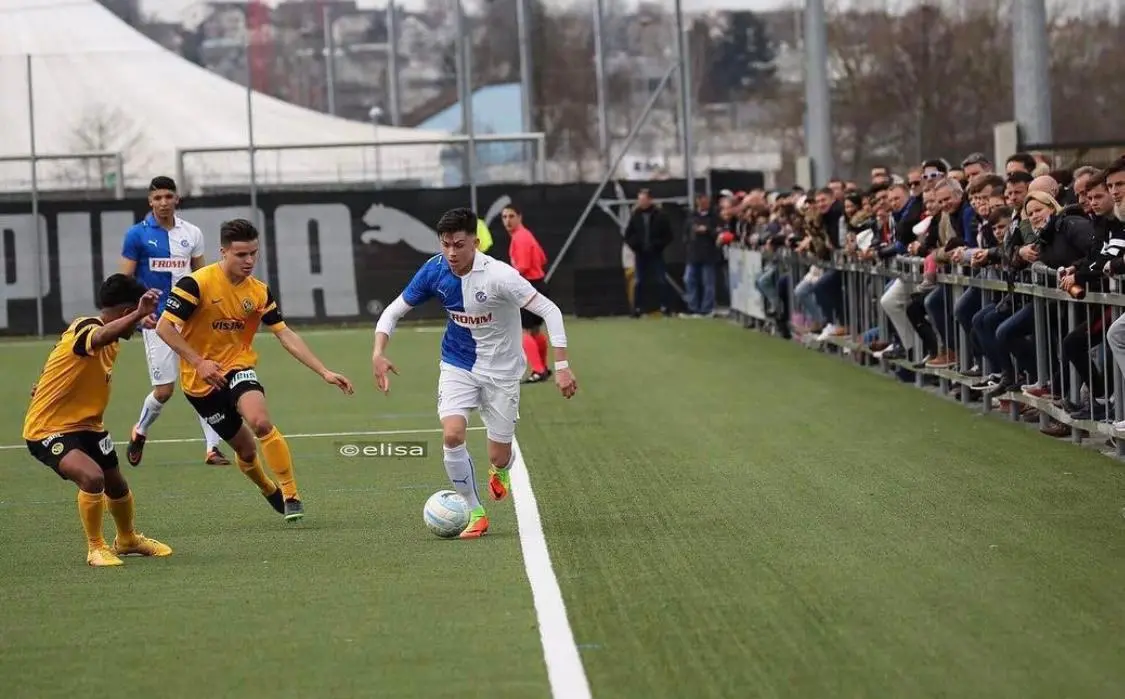
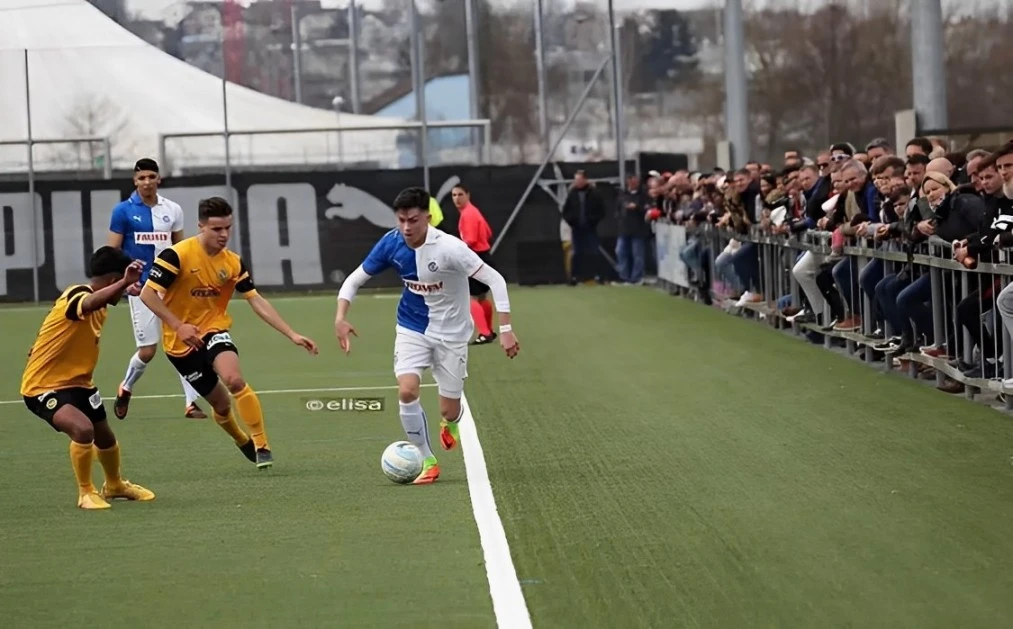
fix: convert img to webp

diff --git a/about.html b/about.html
@@ -100,7 +100,7 @@
                       <p>Nachdem ich meine Fussballschuhe an den Nagel hängen musste, entschied ich mich als Fussballtrainer weiterzuentwickeln. Ich absolvierte 3 Trainerdiplome in 2 Jahren und besitze die UEFA C Lizenz, während ich weiterhin nach einem höheren Diplom strebe. Mit meiner Mannschaft, den BA Junioren in Stäfa, durfte ich bereits Erfolge feiern, als wir in die höchste Liga, die Youth League der BA Junioren, aufgestiegen sind. Mein Ziel ist es, Spieler mit meinem Wissen auf ihre Höchstleistungen zu bringen, da ich selbst früher an Privattrainings teilgenommen habe und weiss, wie wichtig es ist, grosse Fortschritte zu erzielen. Die Erinnerungen an meine verlorenen Träume auf dem Spielfeld treiben mich jeden Tag an, um nun als Trainer anderen dabei zu helfen, ihre eigenen Träume zu verwirklichen.</p>
                     </div>
                     <div class="col-five tab-full content-center footer-desc wow fadeInUp  " data-wow-duration="1s" data-wow-delay="0.3s">
-                       <img class="square-image" src="images/miki/staefa-portrait.jpeg" alt="Miralem Amzi Staefa">
+                       <img class="square-image" src="images/miki/staefa-portrait.webp" alt="Miralem Amzi Staefa">
                     </div>
                  </div>
                </div>
@@ -132,7 +132,7 @@
                             <div class="ag-timeline-card_item wow fadeInLeft" data-wow-duration="1s" data-wow-delay="0.3s"">
                               <div class="ag-timeline-card_inner">
                                 <div class="ag-timeline-card_img-box">
-                                  <img src="images/miki/staefa-aufstieg.jpg" class="ag-timeline-card_img" width="640" height="360" />
+                                  <img src="images/miki/staefa-aufstieg.webp" class="ag-timeline-card_img" width="640" height="360" />
                                 </div>
                                 <div class="ag-timeline-card_info">
                                  <h4 class="year-title">2022 - Heute</h4>
@@ -180,7 +180,7 @@
                             <div class="ag-timeline-card_item wow fadeInLeft" data-wow-duration="1s" data-wow-delay="0.3s">
                               <div class="ag-timeline-card_inner">
                                 <div class="ag-timeline-card_img-box">
-                                  <img src="images/miki/u18-nati-vs-gc.jpg" class="ag-timeline-card_img" width="640" height="360" />
+                                  <img src="images/miki/u18-nati-vs-gc.webp" class="ag-timeline-card_img" width="640" height="360" />
                                 </div>
                                 <div class="ag-timeline-card_info">
                                   <h4 class="year-title right">2017</h4>
@@ -204,7 +204,7 @@
                             <div class="ag-timeline-card_item wow fadeInRight" data-wow-duration="1s" data-wow-delay="0.3s">
                               <div class="ag-timeline-card_inner">
                                 <div class="ag-timeline-card_img-box">
-                                  <img src="images/miki/liverpool-probetraining.jpg" class="ag-timeline-card_img" width="640" height="360" />
+                                  <img src="images/miki/liverpool-probetraining.webp" class="ag-timeline-card_img" width="640" height="360" />
                                 </div>
                                 <div class="ag-timeline-card_info">
                                   <h4 class="year-title right">2016</h4>
@@ -228,7 +228,7 @@
                             <div class="ag-timeline-card_item wow fadeInLeft" data-wow-duration="1s" data-wow-delay="0.3s">
                               <div class="ag-timeline-card_inner">
                                 <div class="ag-timeline-card_img-box">
-                                  <img src="images/miki/1-spiel-vs-belgien-u17-erstes-tor.jpg" class="ag-timeline-card_img" width="640" height="360" />
+                                  <img src="images/miki/1-spiel-vs-belgien-u17-erstes-tor.webp" class="ag-timeline-card_img" width="640" height="360" />
                                 </div>
                                 <div class="ag-timeline-card_info">
                                   <h4 class="year-title right">2016</h4>
@@ -252,7 +252,7 @@
                             <div class="ag-timeline-card_item wow fadeInRight" data-wow-duration="1s" data-wow-delay="0.3s">
                               <div class="ag-timeline-card_inner">
                                 <div class="ag-timeline-card_img-box">
-                                  <img src="images/miki/cupfinal-gegen-basel.jpg" class="ag-timeline-card_img" width="640" height="360" />
+                                  <img src="images/miki/cupfinal-gegen-basel.webp" class="ag-timeline-card_img" width="640" height="360" />
                                 </div>
                                 <div class="ag-timeline-card_info">
                                   <h4 class="year-title right">2016</h4>
@@ -300,7 +300,7 @@
                             <div class="ag-timeline-card_item wow fadeInRight" data-wow-duration="1s" data-wow-delay="0.3s">
                               <div class="ag-timeline-card_inner">
                                 <div class="ag-timeline-card_img-box">
-                                  <img src="images/miki/erster-vertrag-gc-mit-berater.jpg" class="ag-timeline-card_img" width="640" height="360" />
+                                  <img src="images/miki/erster-vertrag-gc-mit-berater.webp" class="ag-timeline-card_img" width="640" height="360" />
                                 </div>
                                 <div class="ag-timeline-card_info">
                                   <h4 class="year-title right">2016</h4>
@@ -324,7 +324,7 @@
                             <div class="ag-timeline-card_item wow fadeInLeft" data-wow-duration="1s" data-wow-delay="0.3s">
                               <div class="ag-timeline-card_inner">
                                 <div class="ag-timeline-card_img-box">
-                                  <img src="images/miki/nike-vertrag-mit-15.jpg" class="ag-timeline-card_img" width="640" height="360" />
+                                  <img src="images/miki/nike-vertrag-mit-15.webp" class="ag-timeline-card_img" width="640" height="360" />
                                 </div>
                                 <div class="ag-timeline-card_info">
                                   <h4 class="year-title right">2016</h4>
@@ -348,7 +348,7 @@
                             <div class="ag-timeline-card_item wow fadeInRight" data-wow-duration="1s" data-wow-delay="0.3s">
                               <div class="ag-timeline-card_inner">
                                 <div class="ag-timeline-card_img-box">
-                                  <img src="images/miki/u16-cuphalbfinal-vs-fcz-penaltyschiessen-gewonnen.jpg" class="ag-timeline-card_img" width="640" height="360" />
+                                  <img src="images/miki/u16-cuphalbfinal-vs-fcz-penaltyschiessen-gewonnen.webp" class="ag-timeline-card_img" width="640" height="360" />
                                 </div>
                                 <div class="ag-timeline-card_info">
                                   <h4 class="year-title right">2016</h4>
@@ -372,7 +372,7 @@
                             <div class="ag-timeline-card_item wow fadeInLeft" data-wow-duration="1s" data-wow-delay="0.3s">
                               <div class="ag-timeline-card_inner">
                                 <div class="ag-timeline-card_img-box">
-                                  <img src="images/miki/u15-sieg-vs-yb.jpg" class="ag-timeline-card_img" width="640" height="360" />
+                                  <img src="images/miki/u15-sieg-vs-yb.webp" class="ag-timeline-card_img" width="640" height="360" />
                                 </div>
                                 <div class="ag-timeline-card_info">
                                   <h4 class="year-title right">2014</h4>
@@ -396,7 +396,7 @@
                             <div class="ag-timeline-card_item wow fadeInRight" data-wow-duration="1s" data-wow-delay="0.3s">
                               <div class="ag-timeline-card_inner">
                                 <div class="ag-timeline-card_img-box">
-                                  <img src="images/miki/u13-gc-campus.jpg" class="ag-timeline-card_img" width="640" height="360" />
+                                  <img src="images/miki/u13-gc-campus.webp" class="ag-timeline-card_img" width="640" height="360" />
                                 </div>
                                 <div class="ag-timeline-card_info">
                                   <h4 class="year-title right">2013</h4>
@@ -417,7 +417,7 @@
                             <div class="ag-timeline-card_item wow fadeInLeft" data-wow-duration="1s" data-wow-delay="0.3s">
                               <div class="ag-timeline-card_inner">
                                 <div class="ag-timeline-card_img-box">
-                                  <img src="images/miki/cupfinal-u12.jpeg" class="ag-timeline-card_img" width="640" height="360" />
+                                  <img src="images/miki/cupfinal-u12.webp" class="ag-timeline-card_img" width="640" height="360" />
                                 </div>
                                 <div class="ag-timeline-card_info">
                                   <h4 class="year-title right">2012</h4>
@@ -441,7 +441,7 @@
                             <div class="ag-timeline-card_item wow fadeInRight" data-wow-duration="1s" data-wow-delay="0.3s">
                               <div class="ag-timeline-card_inner">
                                 <div class="ag-timeline-card_img-box">
-                                  <img src="images/miki/miki-kind-gc.jpg" class="ag-timeline-card_img" width="640" height="360" />
+                                  <img src="images/miki/miki-kind-gc.webp" class="ag-timeline-card_img" width="640" height="360" />
                                 </div>
                                 <div class="ag-timeline-card_info">
                                   <h4 class="year-title right">2011</h4>
@@ -462,7 +462,7 @@
                             <div class="ag-timeline-card_item wow fadeInLeft" data-wow-duration="1s" data-wow-delay="0.3s">
                               <div class="ag-timeline-card_inner">
                                 <div class="ag-timeline-card_img-box">
-                                  <img src="images/miki/u11-gc-portrait.jpg" class="ag-timeline-card_img" width="640" height="360" />
+                                  <img src="images/miki/u11-gc-portrait.webp" class="ag-timeline-card_img" width="640" height="360" />
                                 </div>
                                 <div class="ag-timeline-card_info">
                                   <h4 class="year-title right">2010</h4>
@@ -486,7 +486,7 @@
                             <div class="ag-timeline-card_item wow fadeInRight" data-wow-duration="1s" data-wow-delay="0.3s">
                               <div class="ag-timeline-card_inner">
                                 <div class="ag-timeline-card_img-box">
-                                  <img src="images/miki/staefa-kickerschool.jpeg" class="ag-timeline-card_img" width="640" height="360" />
+                                  <img src="images/miki/staefa-kickerschool.webp" class="ag-timeline-card_img" width="640" height="360" />
                                 </div>
                                 <div class="ag-timeline-card_info">
                                   <h4 class="year-title right">2005 - 2010</h4>
